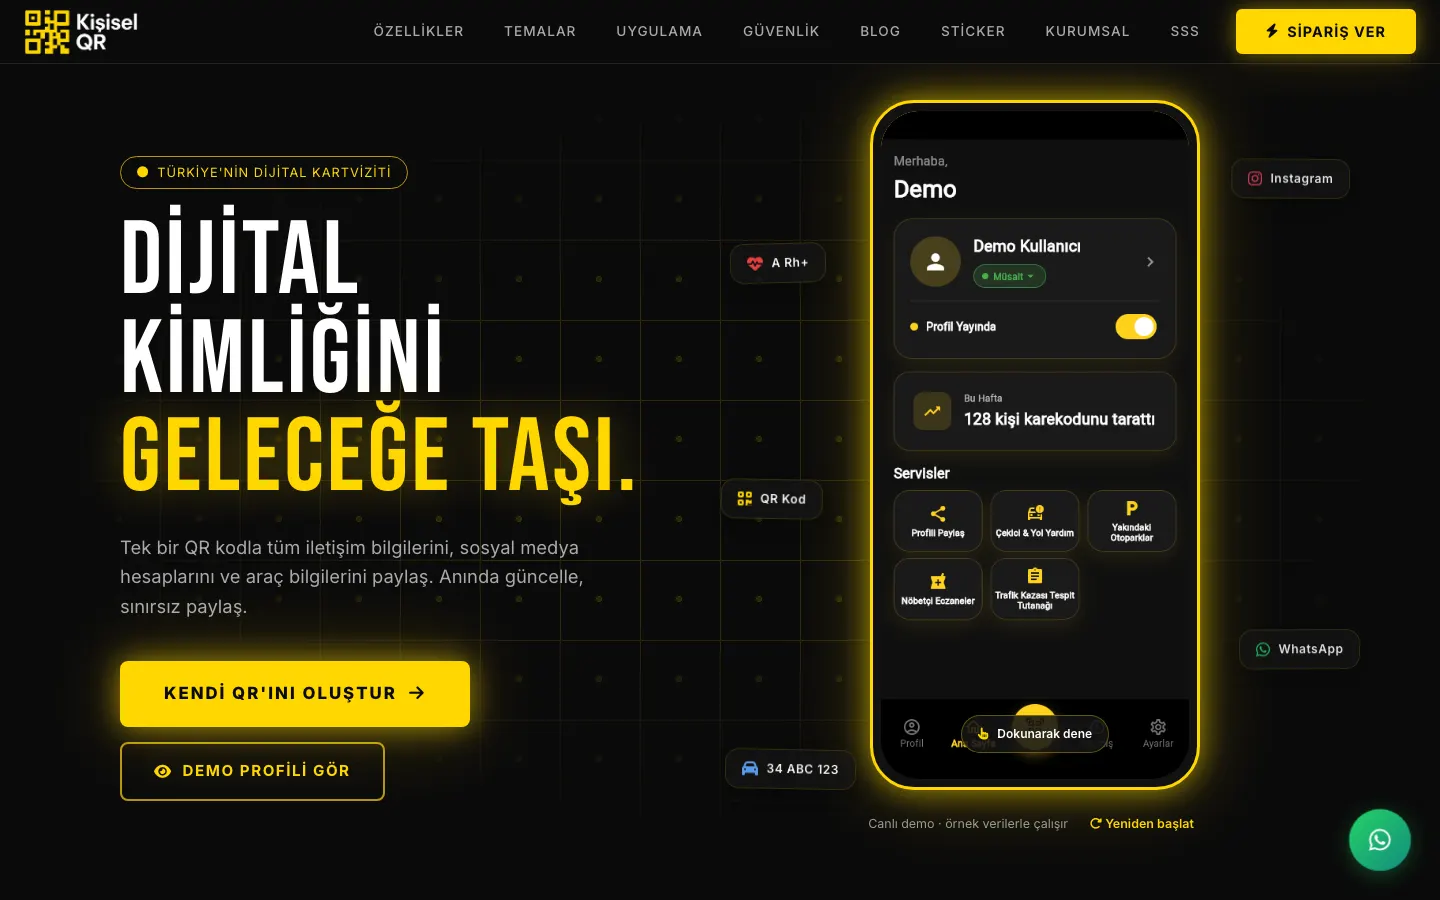
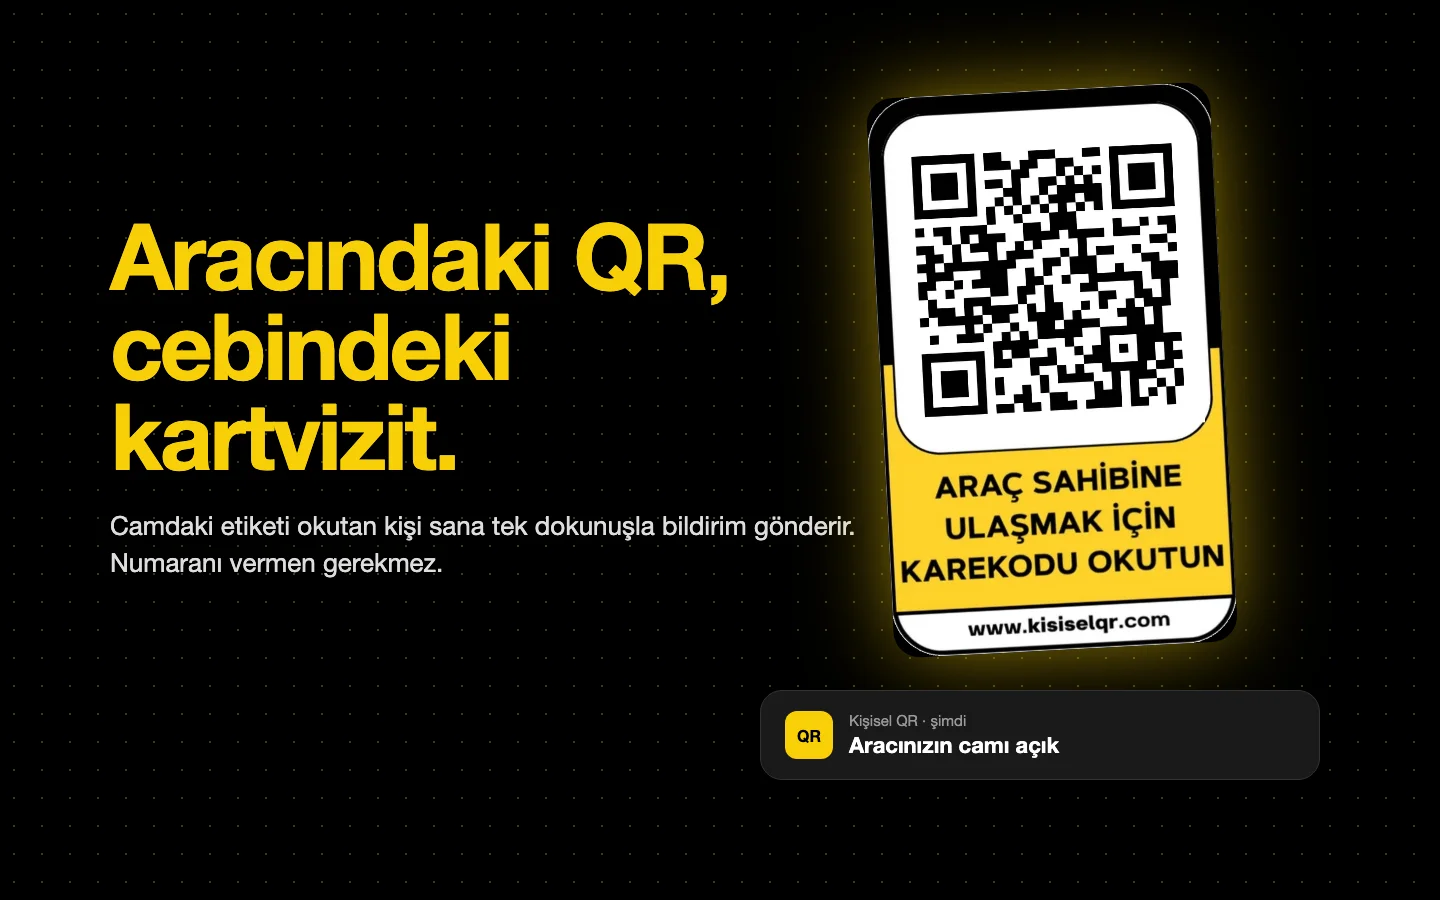
feat: Kişisel QR tanıtımı yenilendi (araç etiketi odaklı, gerçek sticker, bildirim demosu) ve Candemkey projesi eklendi

diff --git a/src/components/v2/rooms/QrRoom.tsx b/src/components/v2/rooms/QrRoom.tsx
@@ -1,7 +1,10 @@
+import Image from "next/image";
 import QRCode from "qrcode";
 import type { Locale } from "@/i18n/config";
 import type { Product } from "@/lib/content";
 import type { Dictionary } from "@/lib/dictionary";
+import { asset } from "@/lib/static";
+import { QrAlert } from "./QrAlert";
 import { RoomInfo, type RoomTheme } from "./RoomInfo";
 
 const theme: RoomTheme = {
@@ -78,16 +81,35 @@ export function QrRoom({ product, lang, dict, index, level = 3 }: { product: Pro
           titleClass="text-white"
           taglineClass="v2-display text-[clamp(2rem,1.4rem+2.6vw,3.5rem)] text-qr-yellow"
         />
-        <div className="grid items-end gap-6 sm:grid-cols-[1.1fr_1fr]">
-          <figure>
-            <a href={product.links.web || "#"} target="_blank" rel="noopener noreferrer" className="block rounded-3xl shadow-[0_0_60px_-20px_rgba(248,208,8,0.6)]">
-              <RealQr url={product.links.web || "https://kisiselqr.com/"} label={t.qrReal} />
-            </a>
-            <figcaption className="mt-3 font-mono text-mono-sm text-qr-yellow">{t.qrReal}</figcaption>
-          </figure>
-          <ProfileCard t={t} />
+        <div className="grid gap-6">
+          <QrAlert t={t} />
+          <div className="grid items-end gap-6 sm:grid-cols-[1fr_1fr]">
+            <figure className="mx-auto w-full max-w-60 sm:max-w-none">
+              <div className="relative aspect-[5/8] w-full -rotate-2 overflow-hidden rounded-[1.4rem] shadow-[0_0_60px_-15px_rgba(248,208,8,0.65)]">
+                <Image src={asset("/products/kisisel-qr-sticker.webp")} alt={t.qrStickerAlt} fill sizes="(min-width: 1024px) 18rem, 15rem" className="object-cover" />
+              </div>
+              <figcaption className="mt-4 font-mono text-mono-sm text-qr-yellow">{t.qrStickerCaption}</figcaption>
+            </figure>
+            <div className="flex flex-col items-center gap-5 sm:items-stretch">
+              <ProfileCard t={t} />
+              <a href={product.links.web || "#"} target="_blank" rel="noopener noreferrer" className="flex items-center gap-4">
+                <span className="block w-24 shrink-0 rounded-2xl shadow-[0_0_40px_-15px_rgba(248,208,8,0.6)]">
+                  <RealQr url={product.links.web || "https://kisiselqr.com/"} label={t.qrReal} />
+                </span>
+                <span className="font-mono text-mono-sm text-qr-yellow">{t.qrReal}</span>
+              </a>
+            </div>
+          </div>
         </div>
       </div>
+      <dl className="container-site relative mt-12 grid grid-cols-2 gap-x-6 gap-y-6 border-t border-white/20 pt-8 lg:mt-16 lg:grid-cols-4">
+        {t.qrFacts.map(([k, v]) => (
+          <div key={k}>
+            <dt className="v2-heading text-[clamp(1.5rem,1.2rem+1.2vw,2.25rem)] text-qr-yellow">{k}</dt>
+            <dd className="mt-1 text-sm text-white/80">{v}</dd>
+          </div>
+        ))}
+      </dl>
     </section>
   );
 }

diff --git a/src/components/v2/rooms/QrAlert.tsx b/src/components/v2/rooms/QrAlert.tsx
@@ -1,0 +1,44 @@
+"use client";
+
+import { useState } from "react";
+import type { Dictionary } from "@/lib/dictionary";
+
+/** Tap a situation, see the notification the car owner would get. Works as plain text without JS (first one is shown). */
+export function QrAlert({ t }: { t: Dictionary["v2"] }) {
+  const [i, setI] = useState(0);
+  const items = t.qrAlertSituations;
+  return (
+    <div className="rounded-3xl border-2 border-qr-yellow/70 bg-[#0d0d0d] p-5 shadow-[0_0_60px_-20px_rgba(248,208,8,0.55)] sm:p-6">
+      <p className="font-mono text-[0.7rem] text-qr-yellow">{t.qrAlertTitle}</p>
+      <div role="group" aria-label={t.qrAlertHint} className="mt-4 flex flex-wrap gap-2">
+        {items.map(([label], k) => (
+          <button
+            key={label}
+            type="button"
+            aria-pressed={k === i}
+            onClick={() => setI(k)}
+            className={`min-h-10 rounded-full border px-4 font-archivo text-sm font-semibold transition-colors ${
+              k === i ? "border-qr-yellow bg-qr-yellow text-black" : "border-white/25 text-white hover:border-qr-yellow"
+            }`}
+          >
+            {label}
+          </button>
+        ))}
+      </div>
+      <p className="mt-2 font-mono text-[0.7rem] text-white/60">{t.qrAlertHint}</p>
+      <div aria-live="polite" className="mt-5 flex items-start gap-3 rounded-2xl bg-white/10 p-4">
+        <span aria-hidden className="grid size-10 shrink-0 place-items-center rounded-xl bg-qr-yellow font-archivo text-sm font-bold text-black">
+          QR
+        </span>
+        <div className="min-w-0 flex-1">
+          <p className="flex justify-between gap-3 text-xs text-white/70">
+            <span>{t.qrAlertApp}</span>
+            <span>{t.qrAlertNow}</span>
+          </p>
+          <p className="mt-0.5 font-archivo font-semibold text-white">{items[i][1]}</p>
+        </div>
+      </div>
+      <p className="mt-4 text-sm text-white/75">{t.qrAlertNote}</p>
+    </div>
+  );
+}
